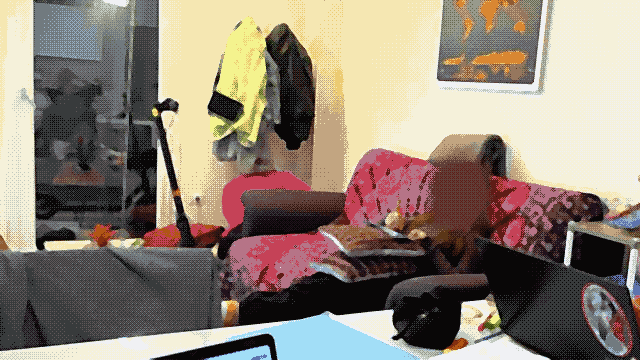
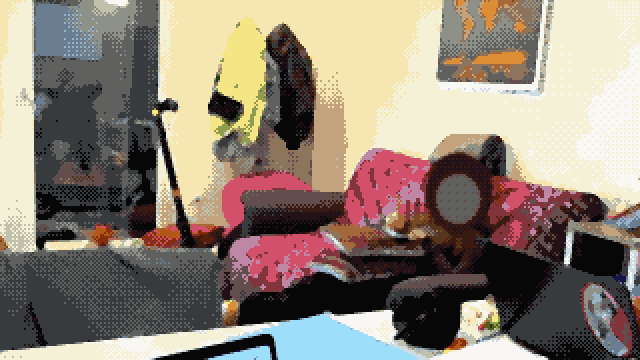
feat(art): render backgrounds as crisp 320x180 pixel art shown at 2x
Pixelise at 320x180 with edge sharpening, box downsample, median and one-pixel outlines, half-strength Bayer dither, 2x nearest upscale; simple heads instead of blurred blobs; check asserts a uniform 2x2 grid. Crops and framing unchanged.

diff --git a/scripts/art/backgrounds.py b/scripts/art/backgrounds.py
@@ -3,8 +3,9 @@
 
 Pipeline per photo: face/text patches, 16:9 crop, resize to 640x360, mild pre-blur,
 auto-levels + contrast/saturation boost, median smoothing (painted look), extra flattening
-of low-detail areas, then ONE shared 32-colour palette (k-means in Lab, fixed seed) and a
-4x4 Bayer ordered dither. Output: palette-indexed PNGs + palette.json.
+of low-detail areas, a 320x180 box downsample with a one-pixel outline, then ONE shared 32-colour
+palette (k-means in Lab, fixed seed), a light 4x4 Bayer ordered dither at 320x180 and a 2x
+nearest-neighbour upscale (true 2x2 pixel grid). Output: palette-indexed PNGs + palette.json.
 
 Quiet by default: one status line per stage, full details in logs/backgrounds/<run>.log.
 Usage: python scripts/art/backgrounds.py [--src DIR] [--out DIR] [--contact-sheet FILE] [--verbose] [--check-only]
@@ -57,6 +58,7 @@ CONFIG: dict[str, dict] = {
         # five faces and the door sign
         "patches": [(154, 410, 43, 50), (384, 394, 45, 50), (742, 268, 35, 40), (937, 297, 50, 60),
                     (773, 401, 45, 48), (343, 287, 28, 22)],
+        "signs": [5],
         "gamma": 1.1, "sat": 1.0, "contrast": 1.1, "wb": 0.6,
     },
     "cortile": {
@@ -67,6 +69,7 @@ CONFIG: dict[str, dict] = {
                     (585, 439, 30, 34), (658, 517, 28, 32), (731, 517, 28, 32), (799, 512, 28, 32),
                     (919, 521, 28, 32), (987, 536, 28, 32), (965, 874, 22, 26), (55, 960, 40, 50),
                     (850, 850, 135, 48), (640, 925, 38, 42), (600, 955, 30, 34)],
+        "signs": [12],
         "gamma": 0.85, "sat": 1.2, "contrast": 1.05, "wb": 0.5,
     },
     "divano": {
@@ -79,7 +82,10 @@ CONFIG: dict[str, dict] = {
 }
 
 BAYER4 = np.array([[0, 8, 2, 10], [12, 4, 14, 6], [3, 11, 1, 9], [15, 7, 13, 5]], dtype=np.float32)
-DITHER = 22.0  # offset amplitude in 0..255 RGB units around each pixel before nearest-colour lookup
+DITHER = 11.0  # offset amplitude in 0..255 RGB units around each art pixel (half of the old 22 at 640x360)
+LW, LH = W // 2, H // 2  # art-pixel grid: every art pixel is a 2x2 block in the 640x360 output
+EDGE_T = 38.0  # luminance gradient above which an art pixel counts as a strong edge
+EDGE_DARK = 0.80  # brightness factor of the one-pixel outline on strong edges
 
 
 def srgb_to_lab(rgb: np.ndarray) -> np.ndarray:
@@ -92,20 +98,42 @@ def srgb_to_lab(rgb: np.ndarray) -> np.ndarray:
     return np.stack([116 * f[..., 1] - 16, 500 * (f[..., 0] - f[..., 1]), 200 * (f[..., 1] - f[..., 2])], -1)
 
 
-def paint_patches(img: Image.Image, patches: list[tuple]) -> Image.Image:
-    """Flat blurred patch of the mean colour of the ring around each ellipse."""
+SKIN = np.array([214, 168, 140], dtype=np.float32)  # muted skin tone, scaled by the local brightness
+
+
+def paint_patches(img: Image.Image, patches: list[tuple], signs: tuple[int, ...] = ()) -> Image.Image:
+    """Cover faces and signs before pixelising.
+
+    A sign becomes a flat disc of the median colour of the ring around it. A face becomes a simple
+    head: a hair-dark ellipse (darkest ring pixels) with a small featureless skin-tone face, so the
+    silhouette reads as a person instead of a hole. Edges are nearly hard so they survive the 320x180 grid.
+    """
     arr = np.asarray(img, dtype=np.float32)
     yy, xx = np.mgrid[0:img.height, 0:img.width]
     out = img.copy()
-    for cx, cy, rx, ry in patches:
+    for i, (cx, cy, rx, ry) in enumerate(patches):
         d = ((xx - cx) / rx) ** 2 + ((yy - cy) / ry) ** 2
         ring = (d > 1.2) & (d < 2.0)
         if not ring.any():
             continue
-        colour = tuple(int(v) for v in np.median(arr[ring], axis=0))
-        mask = Image.fromarray(((d <= 1.15) * 255).astype(np.uint8)).filter(ImageFilter.GaussianBlur(max(rx, ry) * 0.18))
-        out = Image.composite(Image.new("RGB", img.size, colour), out, mask)
+        px = arr[ring]
+        blur = _patch_blur(rx, ry)
+        mask = Image.fromarray(((d <= 1.15) * 255).astype(np.uint8)).filter(blur)
+        if i in signs:
+            out = Image.composite(Image.new("RGB", img.size, tuple(int(v) for v in np.median(px, axis=0))), out, mask)
+            continue
+        lum = px @ np.array([0.299, 0.587, 0.114], dtype=np.float32)
+        hair = px[lum <= np.percentile(lum, 30)].mean(0) * 0.8
+        out = Image.composite(Image.new("RGB", img.size, tuple(int(v) for v in hair)), out, mask)
+        skin = np.clip(SKIN * np.clip(float(np.median(lum)) / 150.0, 0.45, 1.05), 0, 255)
+        fd = ((xx - cx) / (rx * 0.72)) ** 2 + ((yy - (cy + ry * 0.18)) / (ry * 0.68)) ** 2
+        fmask = Image.fromarray(((fd <= 1.0) * 255).astype(np.uint8)).filter(blur)
+        out = Image.composite(Image.new("RGB", img.size, tuple(int(v) for v in skin)), out, fmask)
     return out
+
+
+def _patch_blur(rx: float, ry: float) -> ImageFilter.GaussianBlur:
+    return ImageFilter.GaussianBlur(max(1.0, max(rx, ry) * 0.05))
 
 
 def grade(img: Image.Image, p: dict) -> Image.Image:
@@ -136,22 +164,41 @@ def flatten(img: Image.Image) -> Image.Image:
     return out.filter(ImageFilter.UnsharpMask(radius=1.5, percent=90, threshold=3))  # crisp edges before dithering
 
 
-def prepare(src_dir: Path, bid: str) -> tuple[Image.Image, int]:
+def pixelise(img: Image.Image) -> np.ndarray:
+    """640x360 toned picture -> float RGB array on the 320x180 art-pixel grid.
+
+    Mild edge sharpening first so lines survive, strong area downsample (box), a 3x3 median to
+    kill single-pixel noise, then a one-pixel dark outline on strong luminance edges.
+    """
+    img = img.filter(ImageFilter.UnsharpMask(radius=1.2, percent=70, threshold=2))
+    small = img.resize((LW, LH), Image.BOX).filter(ImageFilter.MedianFilter(3))
+    a = np.asarray(small, dtype=np.float32)
+    lum = a @ np.array([0.299, 0.587, 0.114], dtype=np.float32)
+    gy, gx = np.gradient(lum)
+    edge = np.hypot(gx, gy) * 2.0  # central difference spans 2 px
+    # keep only the darker side of an edge so lines stay one pixel thin
+    darker = lum <= np.minimum.reduce([np.roll(lum, s, ax) for ax in (0, 1) for s in (1, -1)]) + 1.0
+    line = (edge > EDGE_T) & darker
+    a[line] *= EDGE_DARK
+    return np.clip(a, 0, 255)
+
+
+def prepare(src_dir: Path, bid: str) -> tuple[np.ndarray, int]:
     cfg = CONFIG[bid]
     img = ImageOps.exif_transpose(Image.open(src_dir / cfg["file"])).convert("RGB")
     x0, y0, x1, y1 = cfg["crop"]
     assert abs((x1 - x0) * 9 - (y1 - y0) * 16) <= 16, f"{bid}: crop is not 16:9"
-    img = paint_patches(img, cfg["patches"])
+    img = paint_patches(img, cfg["patches"], tuple(cfg.get("signs", ())))
     img = img.crop(cfg["crop"]).resize((W, H), Image.LANCZOS)
-    return flatten(grade(img, cfg)), len(cfg["patches"])
+    return pixelise(flatten(grade(img, cfg))), len(cfg["patches"])
 
 
-def kmeans_palette(images: dict[str, Image.Image]) -> np.ndarray:
+def kmeans_palette(images: dict[str, np.ndarray]) -> np.ndarray:
     rng = np.random.default_rng(SEED)
     per = 12000
     pts = []
     for im in images.values():
-        flat = np.asarray(im).reshape(-1, 3)
+        flat = np.round(im).astype(np.uint8).reshape(-1, 3)
         pts.append(flat[rng.choice(len(flat), per, replace=False)])
     rgb = np.concatenate(pts)
     lab = srgb_to_lab(rgb)
@@ -175,13 +222,14 @@ def kmeans_palette(images: dict[str, Image.Image]) -> np.ndarray:
     return pal[np.argsort(lum, kind="stable")]
 
 
-def dither_to_indices(im: Image.Image, pal: np.ndarray) -> np.ndarray:
-    a = np.asarray(im, dtype=np.float32)
-    thr = (np.tile(BAYER4, (H // 4, W // 4)) + 0.5) / 16.0 - 0.5
+def dither_to_indices(a: np.ndarray, pal: np.ndarray) -> np.ndarray:
+    """4x4 Bayer dither on the 320x180 art grid, then 2x nearest-neighbour up to 640x360."""
+    thr = (np.tile(BAYER4, (LH // 4 + 1, LW // 4))[:LH] + 0.5) / 16.0 - 0.5
     a = np.clip(a + thr[..., None] * 2 * DITHER, 0, 255)
     lab = srgb_to_lab(a.reshape(-1, 3))
     plab = srgb_to_lab(pal)
-    return ((lab[:, None, :] - plab[None]) ** 2).sum(-1).argmin(1).reshape(H, W).astype(np.uint8)
+    idx = ((lab[:, None, :] - plab[None]) ** 2).sum(-1).argmin(1).reshape(LH, LW).astype(np.uint8)
+    return idx.repeat(2, axis=0).repeat(2, axis=1)
 
 
 def save_indexed(idx: np.ndarray, pal: np.ndarray, path: Path) -> None:
@@ -212,6 +260,11 @@ def check(out_dir: Path) -> tuple[bool, list[str]]:
             errs.append(f"{bid}: {len(cols)} colours")
         if not cols <= pal:
             errs.append(f"{bid}: colours outside palette.json")
+        px = np.asarray(im.convert("RGB"))
+        if px.shape[:2] == (H, W):
+            q = px.reshape(LH, 2, LW, 2, 3)
+            if not (q == q[:, :1, :, :1, :]).all():
+                errs.append(f"{bid}: not a uniform 2x2 pixel grid")
         if f.stat().st_size > MAX_BYTES:
             errs.append(f"{bid}: {f.stat().st_size // 1024} KB > 150 KB")
     return not errs, errs

diff --git a/scripts/art/README-backgrounds.md b/scripts/art/README-backgrounds.md
@@ -15,13 +15,16 @@ Flags: `--src DIR` (instead of the env variable), `--out DIR`, `--contact-sheet 
 
 ## What it does
 
-1. Paints a flat blurred patch of the local colours over every face and sign listed in `CONFIG[...]["patches"]` (source-pixel ellipses), before anything else.
+1. Covers every face and sign listed in `CONFIG[...]["patches"]` (source-pixel ellipses) before anything else: a sign (index in `CONFIG[...]["signs"]`) becomes a flat disc of the ring colour, a face becomes a simple head (hair-dark ellipse with a small featureless skin-tone face) with nearly hard edges.
 2. Crops the explicit 16:9 box from `CONFIG[...]["crop"]` and resizes to 640x360.
 3. Mild blur, optional partial white balance, auto-levels, gamma, contrast and saturation (per-background values in `CONFIG`).
 4. Median smoothing, with a stronger median on low-detail areas so large surfaces read as painted flats, then a light unsharp mask for crisp edges.
-5. One shared palette of at most 32 colours: k-means in Lab over equal-sized samples from all six images, fixed seed, sorted dark to light, written to `palette.json`.
-6. 4x4 Bayer ordered dither against that palette, saved as a palette-indexed PNG (each file stays well under 150 KB).
+5. Pixelise: another mild sharpen so lines survive, strong box downsample to a 320x180 art-pixel grid, a 3x3 median against noise, and a one-pixel dark outline (80 % brightness) on the darker side of strong luminance edges.
+6. One shared palette of at most 32 colours: k-means in Lab over equal-sized samples from the six 320x180 images, fixed seed, sorted dark to light, written to `palette.json`.
+7. 4x4 Bayer ordered dither at 320x180 (half the old strength) against that palette, then 2x nearest-neighbour upscale to 640x360, so every art pixel is a 2x2 block. Saved as a palette-indexed PNG (each file stays well under 150 KB).
 
-The result is deterministic: the same photos and versions give byte-identical output. Edit the PNGs by hand in Pixelorama afterwards; they are plain indexed PNGs using the shared palette (import `palette.json` colours, or load the PNG's own palette).
+The check at the end asserts size, the shared palette, the file size and that every 2x2 block of every output is uniform (a true 2x2 pixel grid). Crops, framing and tone grading are unchanged from the earlier blurry version, so the coordinates in `docs/art-backgrounds.md` stay valid (compared edge maps of old and new: no shift at all, within the 1 px search resolution of a +-6 px window).
+
+The result is deterministic: the same photos and versions give byte-identical output. Edit the PNGs by hand in Pixelorama afterwards; they are plain indexed PNGs using the shared palette (import `palette.json` colours, or load the PNG's own palette). Paint at the 320x180 grid (or draw 2x2 blocks) to keep the pixel grid; the check fails otherwise.
 
 To change a crop, a patch or the grading, edit `CONFIG` at the top of the script and rerun.

diff --git a/docs/art-backgrounds.md b/docs/art-backgrounds.md
@@ -2,7 +2,7 @@
 
 For the scenes worker. All coordinates are in the 640x360 game space, x to the right and y down, rectangles as {x, y, w, h}. They were read off the final PNGs in `public/assets/backgrounds/`, so they are close but not pixel exact: tune them in the browser with a debug overlay. All six files share the 32 colours of `palette.json`. The pipeline is `scripts/art/backgrounds.py`, see `scripts/art/README-backgrounds.md`.
 
-Faces were painted over with flat blurred patches of the local colours before pixelising (circe, cortile, divano). No text of the photos remains readable (the sign of the music venue and the door sign in the kitchen were patched too). The patched people are still baked into the picture as blurred silhouettes; Alessandro may paint them out by hand in Pixelorama.
+The backgrounds are true low-res pixel art: drawn on a 320x180 grid and shown 2x, so every art pixel is a 2x2 block of the 640x360 image (crops and framing are the same as the earlier blurry version, so every coordinate below still holds). Faces were replaced by simple featureless heads (hair-dark ellipse, small skin-tone face) before pixelising (circe, cortile, divano). No text of the photos remains readable (the sign of the music venue and the door sign in the kitchen were patched too). The patched people are still baked into the picture as flat silhouettes; Alessandro may paint them out by hand in Pixelorama.
 
 ## universita (scene 1, Prof. Pinolo, friend Lollino)
 
